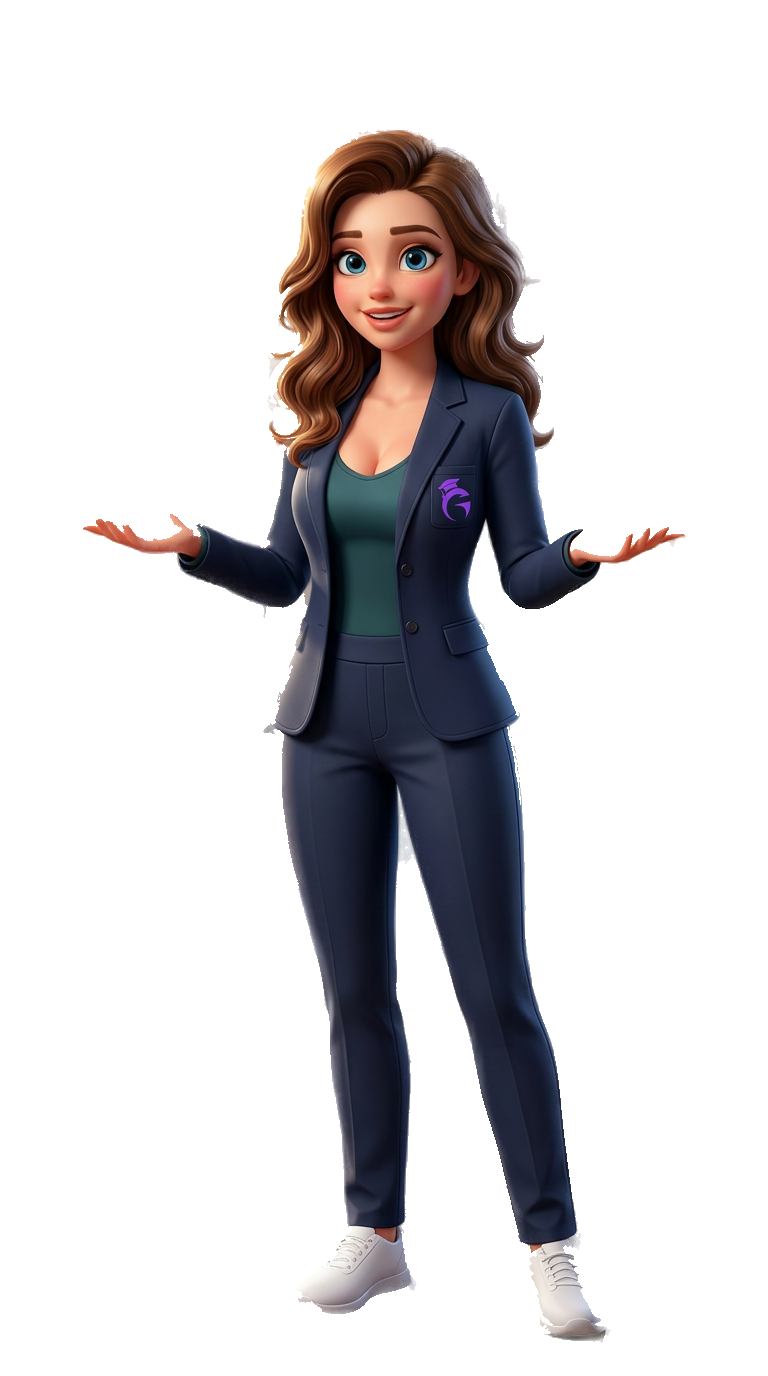
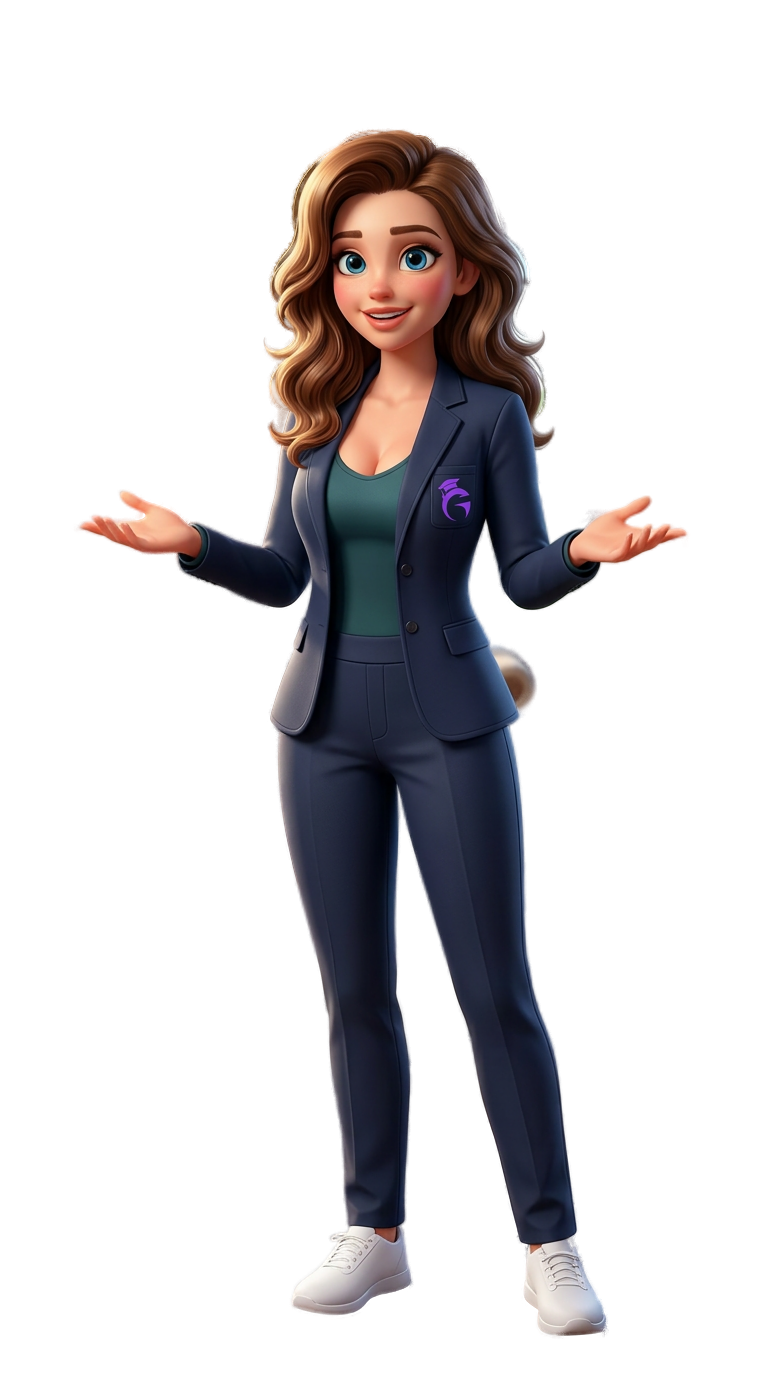
fix(assets): FLO hero transparent cutout — isnet model, hands preserved
Background removal from FLO_Image_3.png using rembg isnet-general-use
with alpha matting. Hands, fingers, face, hair, clothing all intact.
Landing hero now uses /flo/flo-hero.png (transparent PNG).

diff --git a/client/src/pages/landing.tsx b/client/src/pages/landing.tsx
@@ -123,7 +123,7 @@ export default function Landing() {
             {/* Center — FLO transparent cutout */}
             <div className="order-2 flex justify-center">
               <img
-                src="/flo/flo-image-3.png"
+                src="/flo/flo-hero.png"
                 alt="FLO — AI Mental Performance Coach"
                 className="w-[220px] md:w-[280px] lg:w-[320px] object-contain drop-shadow-2xl select-none pointer-events-none"
                 draggable={false}
